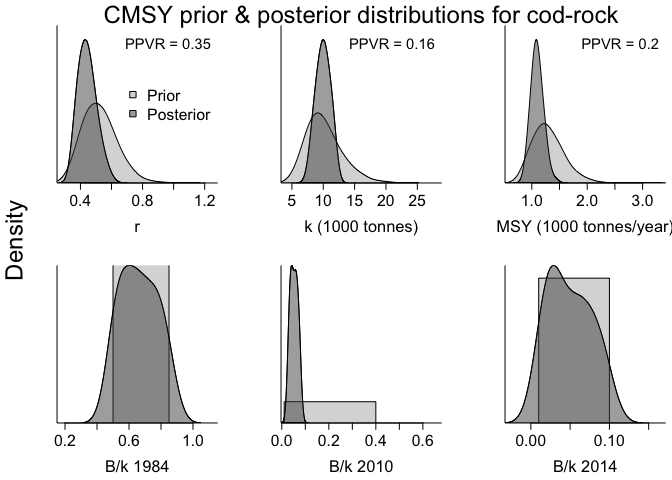
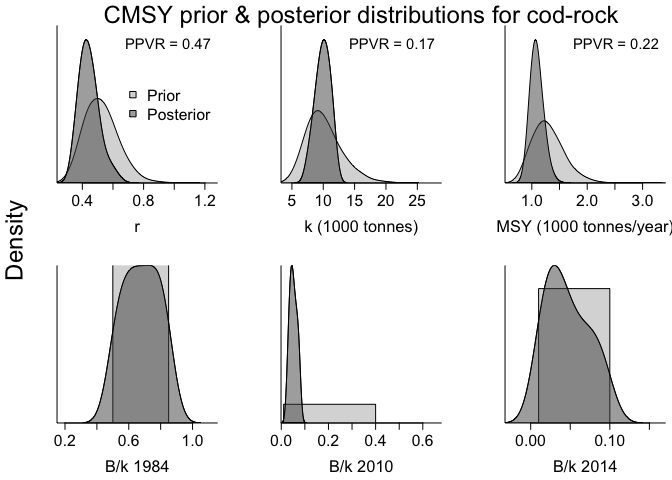
typos

diff --git a/README.md b/README.md
@@ -70,6 +70,8 @@ library(here)
 
 library(portedcmsy)
 
+set.seed(84)
+
 FullSchaefer <-
   F    # initialize variable; automatically set to TRUE if enough abundance data are available
 
@@ -140,11 +142,11 @@ ported_cmsy <- portedcmsy::funct_cmsy(catches = cdat$ct / 1000,
 #> startbio= 0.5 0.85 expert , intbio= 2010 0.01 0.4 default , endbio= 0.01 0.1 default 
 #> First Monte Carlo filtering of r-k space with  20000  points...
 #> 
-#> Found  188  viable trajectories for 184  r-k pairs
+#> Found  180  viable trajectories for 178  r-k pairs
 #> Repeating analysis with more points...
 #> Attempt  1  of  3  with  20000  additional points... 
 #> 
-#> Found altogether 528  viable trajectories for 514  r-k pairs
+#> Found altogether 578  viable trajectories for 560  r-k pairs
 port_time <- Sys.time() - a
 
 write_rds(ported_cmsy, "ported_cmsy.rds")
@@ -171,11 +173,11 @@ source(here("cmsy","functional-cmsy-2019-9f.R"))
 #> startbio= 0.5 0.85 expert , intbio= 2010 0.01 0.4 default , endbio= 0.01 0.1 default
 #> First Monte Carlo filtering of r-k space with  20000  points...
 #> 
-#> Found  172  viable trajectories for 167  r-k pairs
+#> Found  201  viable trajectories for 200  r-k pairs
 #> Repeating analysis with more points...
 #> Attempt  1  of  3  with  20000  additional points... 
 #> 
-#> Found altogether 622  viable trajectories for 600  r-k pairs
+#> Found altogether 592  viable trajectories for 579  r-k pairs
 ```
 
 <img src="man/figures/README-unnamed-chunk-2-1.png" width="100%" /><img src="man/figures/README-unnamed-chunk-2-2.png" width="100%" /><img src="man/figures/README-unnamed-chunk-2-3.png" width="100%" /><img src="man/figures/README-unnamed-chunk-2-4.png" width="100%" />
@@ -184,8 +186,8 @@ source(here("cmsy","functional-cmsy-2019-9f.R"))
 
 cmsy_time <- Sys.time() - a
 
-message(glue::glue("ported version cmsy runs {round(as.numeric(port_time)/as.numeric(cmsy_time))} times faster than official cmsy"))
-#> ported version cmsy runs 9 times faster than official cmsy
+message(glue::glue("ported version of cmsy runs {round(as.numeric(port_time)/as.numeric(cmsy_time))} times faster than official cmsy"))
+#> ported version of cmsy runs 11 times faster than official cmsy
 
 sista_output <-  output %>%
   mutate(b_bmsy = bt / bmsy) %>%
